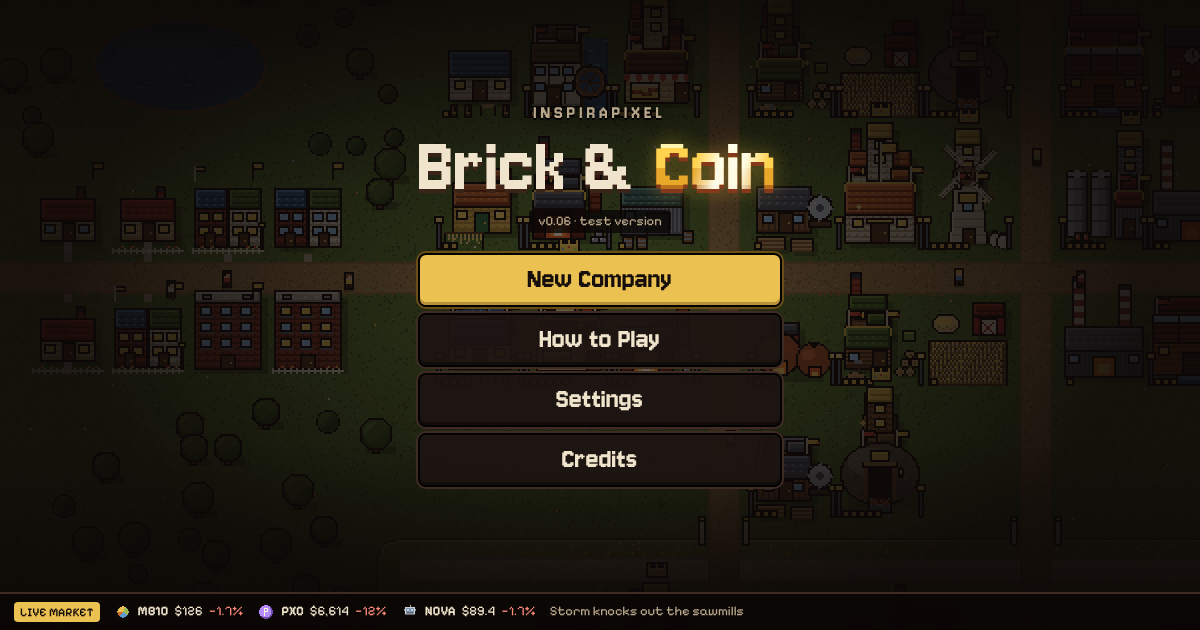
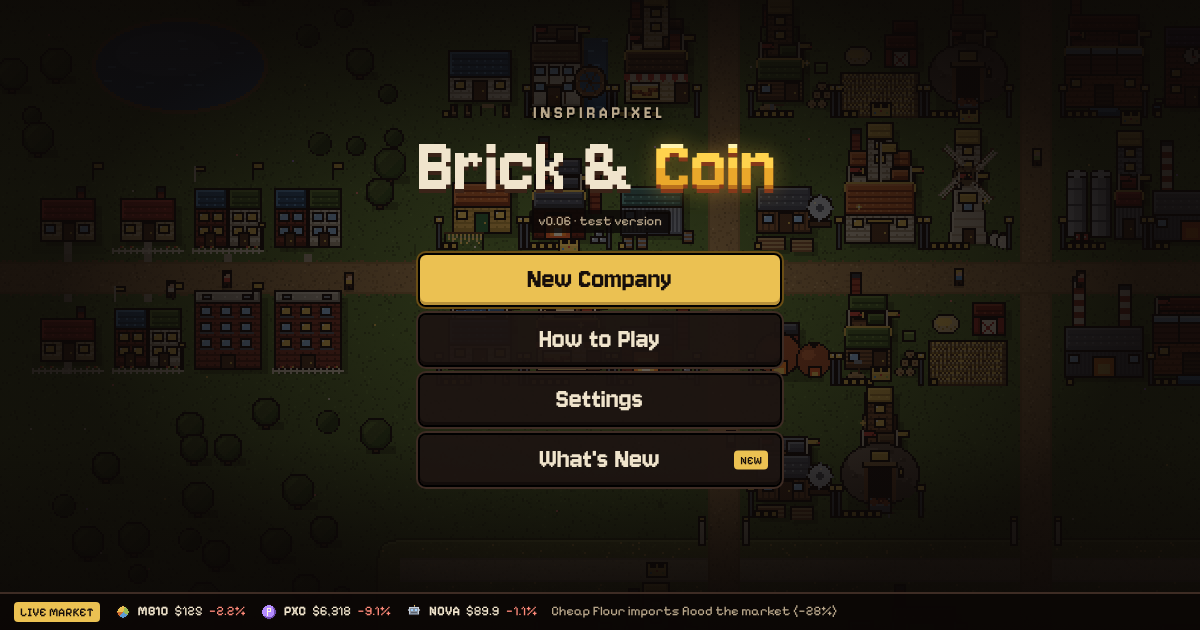
Brick & Coin: What's New replaces Credits on the starting menu
The starting menu's last button is now What's New: the patch notes for every
version, newest first (WHATS_NEW in src/10_data.js), with a NEW badge until
this device has read the latest. Credits stay in the game's Menu > About.
Playtest checks the badge and the notes; docs say to add notes with every
release.

Claude-Session: https://claude.ai/code/session_018F3AHN4Czvvq2cGpCY87DR

diff --git a/brick-and-coin/public/index.html b/brick-and-coin/public/index.html
@@ -455,6 +455,15 @@ textarea.savebox{width:100%;min-height:90px;background:#000;border:0;border-radi
 .tpanel .tfoot{display:flex;gap:10px;align-items:center;justify-content:center;flex-wrap:wrap;width:100%}
 .twarn{font-size:13px;color:var(--gold)}
 .tcred{display:flex;flex-direction:column;gap:8px;font-size:14px;color:var(--bone-dim);max-width:520px}
+.tbtn{position:relative}
+.tbtn .tnew{position:absolute;right:12px;top:50%;transform:translateY(-50%);font-size:11px}
+.wn{width:100%;max-height:min(46vh,400px);overflow-y:auto;text-align:left;display:flex;flex-direction:column;gap:14px;padding-right:8px}
+.wn h3{font:400 26px/.95 var(--font-display);color:var(--bone);margin:0;display:flex;align-items:center;gap:8px}
+.wn h3 .chip{font-size:11px}
+.wn ul{margin:6px 0 0;padding-left:20px;color:var(--bone-dim);font-size:14px}
+.wn li{margin:4px 0}
+.wn b{color:var(--bone);font-weight:600}
+@media (orientation:landscape) and (max-height:540px){.wn{max-height:52vh}.wn h3{font-size:20px}.wn ul{font-size:12px}}
 .tcred b{color:var(--bone);font-weight:600}
 .tmarket{position:absolute;left:0;right:0;bottom:0;min-height:36px;display:flex;align-items:center;gap:14px;padding:6px max(14px,env(safe-area-inset-right)) max(6px,env(safe-area-inset-bottom)) max(14px,env(safe-area-inset-left));background:rgba(11,7,6,.9);box-shadow:0 -2px 0 var(--line);font-size:13px;white-space:nowrap;overflow:hidden}
 .tmarket .tq{display:inline-flex;align-items:center;gap:6px}
@@ -1289,6 +1298,33 @@ const EV_SECTOR = {
 };
 const EV_STOCK_UP = ['{C} beats profit expectations', '{C} lands a huge contract', 'Investors pile into {C}'];
 const EV_STOCK_DOWN = ['{C} misses profit expectations', '{C} CEO under fire', 'Factory fire hits {C}'];
+
+/* ---------------------------------------------------------------- what's new
+   The patch notes on the starting menu, newest first. Add an entry at the top with every release (its v must match
+   VERSION): the What's New button shows a NEW badge until the player has read the latest one. */
+const WHATS_NEW = [
+  { v: 'v0.06', title: 'Menus', items: [
+    'The <b>Inspirapixel</b> logo plays when the game starts.',
+    'A new <b>starting menu</b>: Millbrook drifts by behind the logo, with Continue, New Company, How to Play, Settings and this page.',
+    'A <b>live market</b> strip on the starting menu shows the stock prices and latest news every player sees right now.',
+    'A new in-game <b>Menu</b> (press Esc): How to Play, Settings, Save &amp; Transfer, About and Main Menu, each on its own page.',
+    '<b>How to Play</b> is now six short illustrated pages.',
+    'Sound settings stay with your device.'] },
+  { v: 'v0.05', title: 'One shared world', items: [
+    'The <b>stock market</b>, PixCoin, home prices, rival tycoons, the news, booms and slumps are now <b>the same for every player</b>, live.',
+    'Time away is fairer: closed, or left untouched for 10 minutes, your company runs at <b>25% speed for up to 2 hours</b>.',
+    'A calmer market: shares wander around fair prices instead of climbing forever, and news shocks fade slowly.',
+    'Smaller saves, and save codes are about 4 times shorter.'] },
+  { v: 'v0.04', title: 'Gold Hill', items: [
+    '<b>Gold Hill</b> opens at $1,000,000 net worth: a golden hill south of town with 12 new lots and its own tune.',
+    'Three new products: the <b>Grand Piano</b>, the <b>Gift Hamper</b> and the <b>Motor Car</b>.',
+    'Two <b>Hilltop Villas</b> to buy on Gold Hill.',
+    'Profit numbers now count materials you buy at the price you pay.',
+    'Buildings waiting for materials no longer cost upkeep.',
+    'Nails and Tools sell for more.'] },
+  { v: 'v0.03', title: 'Where it started', items: [
+    'Millbrook: Main Street, Market Row and Industrial Park, 18 products, a live market, stocks, PixCoin, real estate, goals and a tutorial.'] },
+];
 
 'use strict';
 /* ============================================================================
@@ -3283,7 +3319,7 @@ function renderSoundBtn() {
   $('#soundIcon').innerHTML = iconImg(on ? 'sound' : 'mute', 27);
 }
 
-/* ---------- shared by both menus: How to Play, settings, credits ---------- */
+/* ---------- shared by both menus: How to Play, settings, credits (in the game's About) ---------- */
 const HELP = [
   { art: () => bigArt(buildingPreview('wood', 2)), t: 'Build', p: [
     'Tap an <b>empty lot</b> in town and pick a building.',
@@ -3358,7 +3394,12 @@ const TPAGES = {
   },
   help() { return `<h2>How to play</h2>${helpHTML()}<div class="tfoot"><button class="btn ghost" type="button" data-act="tpage" data-v="home">Main menu</button></div>`; },
   settings() { return `<h2>Settings</h2>${settingsHTML()}<div class="tfoot"><button class="btn ghost" type="button" data-act="tpage" data-v="home">Back</button></div>`; },
-  credits() { return `<h2>Credits</h2><div class="tcred">${creditsHTML()}</div><div class="tfoot"><button class="btn ghost" type="button" data-act="tpage" data-v="home">Back</button></div>`; },
+  news() {   // What's New: the patch notes, newest first (WHATS_NEW in 10_data.js); reading it clears the NEW badge
+    seenNews();
+    return `<h2>What's new</h2><div class="wn">${WHATS_NEW.map((r, i) => `<section><h3>${r.v} · ${r.title}${i === 0 ? ' <span class="chip gold">NEW</span>' : ''}</h3>
+      <ul>${r.items.map(x => `<li>${x}</li>`).join('')}</ul></section>`).join('')}</div>
+      <div class="tfoot"><button class="btn ghost" type="button" data-act="tpage" data-v="home">Back</button></div>`;
+  },
 };
 function renderTitle(page) {
   if (page) UI.tpage = page;
@@ -3373,13 +3414,17 @@ function renderTitle(page) {
     <button type="button" class="tbtn ${ex ? '' : 'main'}" data-act="tpage" data-v="new">New Company</button>
     <button type="button" class="tbtn" data-act="tpage" data-v="help">How to Play</button>
     <button type="button" class="tbtn" data-act="tpage" data-v="settings">Settings</button>
-    <button type="button" class="tbtn" data-act="tpage" data-v="credits">Credits</button></nav>`;
+    <button type="button" class="tbtn" data-act="tpage" data-v="news">What's New${newsUnseen() ? '<span class="tnew chip gold">NEW</span>' : ''}</button></nav>`;
   const box = $('#tbox');
   box.className = 'tbox' + (pg === 'home' ? '' : ' sub');
   box.innerHTML = head + (pg === 'home' ? home : `<section class="tpanel">${TPAGES[pg]()}</section>`);
   if (pg === 'new') $('#startForm').addEventListener('submit', e => { e.preventDefault(); startNew(); });
   renderTitleMarket();
 }
+// the NEW badge on What's New: shown until this device has opened the latest notes
+const NEWS_KEY = 'inspirapixel_bizgame_seen';
+function newsUnseen() { try { return localStorage.getItem(NEWS_KEY) !== WHATS_NEW[0].v; } catch (e) { return false; } }
+function seenNews() { try { localStorage.setItem(NEWS_KEY, WHATS_NEW[0].v); } catch (e) {} }
 // the live market along the bottom: the same prices and news every player sees right now
 function renderTitleMarket() {
   const el = $('#tmarket'); if (!el || !WS.ready) return;

diff --git a/brick-and-coin/src/50_ui.js b/brick-and-coin/src/50_ui.js
@@ -501,7 +501,7 @@ function renderSoundBtn() {
   $('#soundIcon').innerHTML = iconImg(on ? 'sound' : 'mute', 27);
 }
 
-/* ---------- shared by both menus: How to Play, settings, credits ---------- */
+/* ---------- shared by both menus: How to Play, settings, credits (in the game's About) ---------- */
 const HELP = [
   { art: () => bigArt(buildingPreview('wood', 2)), t: 'Build', p: [
     'Tap an <b>empty lot</b> in town and pick a building.',
@@ -576,7 +576,12 @@ const TPAGES = {
   },
   help() { return `<h2>How to play</h2>${helpHTML()}<div class="tfoot"><button class="btn ghost" type="button" data-act="tpage" data-v="home">Main menu</button></div>`; },
   settings() { return `<h2>Settings</h2>${settingsHTML()}<div class="tfoot"><button class="btn ghost" type="button" data-act="tpage" data-v="home">Back</button></div>`; },
-  credits() { return `<h2>Credits</h2><div class="tcred">${creditsHTML()}</div><div class="tfoot"><button class="btn ghost" type="button" data-act="tpage" data-v="home">Back</button></div>`; },
+  news() {   // What's New: the patch notes, newest first (WHATS_NEW in 10_data.js); reading it clears the NEW badge
+    seenNews();
+    return `<h2>What's new</h2><div class="wn">${WHATS_NEW.map((r, i) => `<section><h3>${r.v} · ${r.title}${i === 0 ? ' <span class="chip gold">NEW</span>' : ''}</h3>
+      <ul>${r.items.map(x => `<li>${x}</li>`).join('')}</ul></section>`).join('')}</div>
+      <div class="tfoot"><button class="btn ghost" type="button" data-act="tpage" data-v="home">Back</button></div>`;
+  },
 };
 function renderTitle(page) {
   if (page) UI.tpage = page;
@@ -591,13 +596,17 @@ function renderTitle(page) {
     <button type="button" class="tbtn ${ex ? '' : 'main'}" data-act="tpage" data-v="new">New Company</button>
     <button type="button" class="tbtn" data-act="tpage" data-v="help">How to Play</button>
     <button type="button" class="tbtn" data-act="tpage" data-v="settings">Settings</button>
-    <button type="button" class="tbtn" data-act="tpage" data-v="credits">Credits</button></nav>`;
+    <button type="button" class="tbtn" data-act="tpage" data-v="news">What's New${newsUnseen() ? '<span class="tnew chip gold">NEW</span>' : ''}</button></nav>`;
   const box = $('#tbox');
   box.className = 'tbox' + (pg === 'home' ? '' : ' sub');
   box.innerHTML = head + (pg === 'home' ? home : `<section class="tpanel">${TPAGES[pg]()}</section>`);
   if (pg === 'new') $('#startForm').addEventListener('submit', e => { e.preventDefault(); startNew(); });
   renderTitleMarket();
 }
+// the NEW badge on What's New: shown until this device has opened the latest notes
+const NEWS_KEY = 'inspirapixel_bizgame_seen';
+function newsUnseen() { try { return localStorage.getItem(NEWS_KEY) !== WHATS_NEW[0].v; } catch (e) { return false; } }
+function seenNews() { try { localStorage.setItem(NEWS_KEY, WHATS_NEW[0].v); } catch (e) {} }
 // the live market along the bottom: the same prices and news every player sees right now
 function renderTitleMarket() {
   const el = $('#tmarket'); if (!el || !WS.ready) return;

diff --git a/brick-and-coin/src/10_data.js b/brick-and-coin/src/10_data.js
@@ -712,3 +712,30 @@ const EV_SECTOR = {
 const EV_STOCK_UP = ['{C} beats profit expectations', '{C} lands a huge contract', 'Investors pile into {C}'];
 const EV_STOCK_DOWN = ['{C} misses profit expectations', '{C} CEO under fire', 'Factory fire hits {C}'];
 
+/* ---------------------------------------------------------------- what's new
+   The patch notes on the starting menu, newest first. Add an entry at the top with every release (its v must match
+   VERSION): the What's New button shows a NEW badge until the player has read the latest one. */
+const WHATS_NEW = [
+  { v: 'v0.06', title: 'Menus', items: [
+    'The <b>Inspirapixel</b> logo plays when the game starts.',
+    'A new <b>starting menu</b>: Millbrook drifts by behind the logo, with Continue, New Company, How to Play, Settings and this page.',
+    'A <b>live market</b> strip on the starting menu shows the stock prices and latest news every player sees right now.',
+    'A new in-game <b>Menu</b> (press Esc): How to Play, Settings, Save &amp; Transfer, About and Main Menu, each on its own page.',
+    '<b>How to Play</b> is now six short illustrated pages.',
+    'Sound settings stay with your device.'] },
+  { v: 'v0.05', title: 'One shared world', items: [
+    'The <b>stock market</b>, PixCoin, home prices, rival tycoons, the news, booms and slumps are now <b>the same for every player</b>, live.',
+    'Time away is fairer: closed, or left untouched for 10 minutes, your company runs at <b>25% speed for up to 2 hours</b>.',
+    'A calmer market: shares wander around fair prices instead of climbing forever, and news shocks fade slowly.',
+    'Smaller saves, and save codes are about 4 times shorter.'] },
+  { v: 'v0.04', title: 'Gold Hill', items: [
+    '<b>Gold Hill</b> opens at $1,000,000 net worth: a golden hill south of town with 12 new lots and its own tune.',
+    'Three new products: the <b>Grand Piano</b>, the <b>Gift Hamper</b> and the <b>Motor Car</b>.',
+    'Two <b>Hilltop Villas</b> to buy on Gold Hill.',
+    'Profit numbers now count materials you buy at the price you pay.',
+    'Buildings waiting for materials no longer cost upkeep.',
+    'Nails and Tools sell for more.'] },
+  { v: 'v0.03', title: 'Where it started', items: [
+    'Millbrook: Main Street, Market Row and Industrial Park, 18 products, a live market, stocks, PixCoin, real estate, goals and a tutorial.'] },
+];
+

diff --git a/brick-and-coin/src/00_style.html b/brick-and-coin/src/00_style.html
@@ -432,6 +432,15 @@ textarea.savebox{width:100%;min-height:90px;background:#000;border:0;border-radi
 .tpanel .tfoot{display:flex;gap:10px;align-items:center;justify-content:center;flex-wrap:wrap;width:100%}
 .twarn{font-size:13px;color:var(--gold)}
 .tcred{display:flex;flex-direction:column;gap:8px;font-size:14px;color:var(--bone-dim);max-width:520px}
+.tbtn{position:relative}
+.tbtn .tnew{position:absolute;right:12px;top:50%;transform:translateY(-50%);font-size:11px}
+.wn{width:100%;max-height:min(46vh,400px);overflow-y:auto;text-align:left;display:flex;flex-direction:column;gap:14px;padding-right:8px}
+.wn h3{font:400 26px/.95 var(--font-display);color:var(--bone);margin:0;display:flex;align-items:center;gap:8px}
+.wn h3 .chip{font-size:11px}
+.wn ul{margin:6px 0 0;padding-left:20px;color:var(--bone-dim);font-size:14px}
+.wn li{margin:4px 0}
+.wn b{color:var(--bone);font-weight:600}
+@media (orientation:landscape) and (max-height:540px){.wn{max-height:52vh}.wn h3{font-size:20px}.wn ul{font-size:12px}}
 .tcred b{color:var(--bone);font-weight:600}
 .tmarket{position:absolute;left:0;right:0;bottom:0;min-height:36px;display:flex;align-items:center;gap:14px;padding:6px max(14px,env(safe-area-inset-right)) max(6px,env(safe-area-inset-bottom)) max(14px,env(safe-area-inset-left));background:rgba(11,7,6,.9);box-shadow:0 -2px 0 var(--line);font-size:13px;white-space:nowrap;overflow:hidden}
 .tmarket .tq{display:inline-flex;align-items:center;gap:6px}

diff --git a/brick-and-coin/test/playtest.js b/brick-and-coin/test/playtest.js
@@ -207,8 +207,12 @@ let URL;
   await page.click('[data-act=tpage][data-v=settings]');
   await page.click('[data-act=aset][data-k=musicOn][data-v="1"]');
   await page.click('[data-act=tpage][data-v=home]');
-  await page.click('[data-act=tpage][data-v=credits]');
-  check(/Inspirapixel/.test(await page.textContent('.tpanel')), 'Credits');
+  check(await page.isVisible('[data-act=tpage][data-v=news] .tnew'), "What's New shows a NEW badge on a first visit");
+  await page.click('[data-act=tpage][data-v=news]');
+  check(await page.evaluate(() => $('.wn h3').textContent.startsWith(VERSION)), "What's New opens on this version's notes");
+  await shot(page, '01b-whats-new');
+  await page.click('[data-act=tpage][data-v=home]');
+  check(!await page.isVisible('[data-act=tpage][data-v=news] .tnew'), 'and the badge goes once they are read');
   await ctx.close();
 
   /* ---------------- 1. desktop: tutorial, menus, every feature ---------------- */

diff --git a/brick-and-coin/BRICK_AND_COIN_HANDOFF.md b/brick-and-coin/BRICK_AND_COIN_HANDOFF.md
@@ -31,7 +31,7 @@ Since v0.05 the **market is one shared world**:
 | `src/30_sim.js` | The company: production, upkeep, goods prices (the world's swings plus your own selling pressure), real estate, net worth, levels, goals, offline earnings, save and load (`adopt()` brings old saves up to date). |
 | `src/35_world.js` | **The shared world**: the market, PixCoin, homes, rivals, news and goods price swings as a pure function of world time; the world clock and its sync. Market balance lives at the top (`TAU`, `JUMP`, volatilities). |
 | `src/40_audio.js` | Sound effects (`SFX`) and the four chiptunes (`SONGS`), one per area of town. |
-| `src/50_ui.js` | Top bar, side panel, the game's windows (Production web, Market, Invest, Leaderboard, Menu), profit estimates, stock chart, news ticker. The starting menu (`renderTitle`, `TPAGES`, the town backdrop `townPostcard`, the live market strip) and what both menus share: How to Play (`HELP`), settings, credits. |
+| `src/50_ui.js` | Top bar, side panel, the game's windows (Production web, Market, Invest, Leaderboard, Menu), profit estimates, stock chart, news ticker. The starting menu (`renderTitle`, `TPAGES`, the town backdrop `townPostcard`, the live market strip, What's New) and what both menus share: How to Play (`HELP`), settings, credits (in the game's About). |
 | `src/60_tutorial.js` | The five guided steps for a new company (`TUT`). |
 | `src/85_splash.js` | The Inspirapixel logo before the starting menu, ported from Olympus Hunt (`game-src/94_splash.js`); only its sound calls differ. Add `?nosplash` to the address to skip it (tests, screenshots). |
 | `src/90_main.js` | Game loop (keeps the world on the world clock), the idle rule, camera, drawing the town, input, button actions (`act()`), the starting menu's flow (`showTitle`, `startNew`), start and boot. |
@@ -53,7 +53,8 @@ python3 brick-and-coin/build.py                 # 2. build public/index.html
 node brick-and-coin/test/playtest.js            # 3. playtest (about 30 seconds), exits 1 on any failure
 node brick-and-coin/test/market_check.js        # 4. only if the market or news changed
 # 5. look at the screenshots in brick-and-coin/test/out/ for anything visual
-# 6. bump VERSION in src/10_data.js for a release (and run tools/site_images.js: the link preview shows it)
+# 6. for a release: bump VERSION in src/10_data.js, add its notes at the top of WHATS_NEW (same file),
+#    and run tools/site_images.js (the link preview shows the version)
 # 7. commit src/ and public/ together
 ```
 
@@ -63,7 +64,7 @@ The playtest drives the real page in a headless browser:
   - the live market strip shows the shared prices;
   - How to Play turns its pages, and Esc goes back;
   - a sound setting is remembered on the device;
-  - Credits;
+  - What's New shows a NEW badge until read;
   - the game's Menu opens on Esc, Main Menu → Continue picks the company up, and starting a new company over a saved one asks first.
 - **Tutorial and menus:** the whole tutorial by clicking, then every menu: market buy and sell, Keep/Sell/Auto, stocks, PixCoin, a home, and save codes (export, import, survives a redraw).
 - **Art:** every building at every level, every house, icon and town background.
@@ -202,7 +203,7 @@ If Brick & Coin moves to its own GitHub repository later, copy the `brick-and-co
 - **A starting menu:** Millbrook drifts by behind the logo (every area open, buildings at every level), with these buttons:
   - **Continue**, showing your company, level and cash;
   - **New Company**, which asks before replacing a saved company;
-  - **How to Play**, **Settings** and **Credits**.
+  - **How to Play**, **Settings** and **What's New** (the patch notes, with a NEW badge until you've read the latest).
   - A **live market** strip along the bottom shows the shared index, PixCoin and Nova prices and the latest headline.
 - **The game's Menu,** with sections down the side (tabs on phones):
   - Resume;
